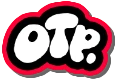
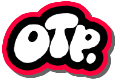
fix(0.28): borde de la pegatina OTP en --bb-red exacto
Segundo pase del jurado (M4, marca): en el borde de corte el azul bajaba
de 60 a 45–59 (#ff002d–#ff003b); solo 136 de 950 rojos opacos eran
#ff003c a 1×. La dilatación dibuja la silueta semitransparente más de cien
veces sobre sí misma y el redondeo premultiplicado de 8 bits deriva el azul.

- otp-slap.mjs repinta el borde dilatado con el rojo exacto conservando su
  alfa (source-in), como ya hacía la sombra.
- La WebP, que es la que pinta el navegador, pasa a sin pérdida (VP8L,
  calidad 1): con pérdida, el submuestreo de croma corría el azul del
  borde entre 40 y 67 y le metía verde (400 píxeles fuera de la tolerancia
  de 8/255 a 1×).
- Antes de guardar, el script decodifica cada fichero y falla si no da los
  píxeles del lienzo o si algún rojo opaco no es rgb(255, 0, 60).
- El manifiesto se escribe con las listas en una línea, como lo deja Biome:
  regenerar ya no rompe pnpm check.

Regenerado con pnpm brand:slap: mismo alfa píxel a píxel (misma forma y
tamaño, 120 × 82 a 1×); 950 de 950 rojos opacos exactos a 1× y 3.971 de
3.971 a 2×, en PNG y WebP. Tests RD-VIS-02 a en OtpSlap.test.tsx
(decodifica las PNG y exige WebP VP8L) y en el E2E otp-slap.spec.ts (lo
que decodifica el navegador a 1× y 2×).

Changed region(s): [[0.0, 0.0244, 0.95, 0.9512], [0.75, 0.1951, 0.775, 0.2195]]

diff --git a/apps/web/src/ui/OtpSlap/OtpSlap.test.tsx b/apps/web/src/ui/OtpSlap/OtpSlap.test.tsx
@@ -1,6 +1,8 @@
 /// <reference types="node" />
 import { readFileSync } from 'node:fs'
 import path from 'node:path'
+import { inflateSync } from 'node:zlib'
+import { color } from '@beatbattle/shared/tokens'
 import { render, screen } from '@testing-library/react'
 import { describe, expect, it } from 'vitest'
 import { t } from '../../i18n'
@@ -29,6 +31,78 @@ function webpSize(bytes: Buffer) {
   }
   return { width: bytes.readUInt16LE(26) & 0x3fff, height: bytes.readUInt16LE(28) & 0x3fff }
 }
+
+/** Trozos de un fichero RIFF/WebP (tipo y tamaño), en orden. */
+function webpChunks(bytes: Buffer) {
+  const chunks: string[] = []
+  for (let at = 12; at + 8 <= bytes.length; ) {
+    const size = bytes.readUInt32LE(at + 4)
+    chunks.push(bytes.subarray(at, at + 4).toString('ascii'))
+    at += 8 + size + (size % 2)
+  }
+  return chunks
+}
+
+/**
+ * Píxeles RGBA de un PNG de 8 bits por canal, RGBA y sin entrelazar (lo que exporta el canvas de
+ * Chrome): IDAT inflado y los cinco filtros de línea deshechos.
+ */
+function pngPixels(bytes: Buffer) {
+  const { width, height } = pngSize(bytes)
+  expect([bytes[24], bytes[25], bytes[28]], 'PNG de 8 bits, RGBA y sin entrelazar').toEqual([8, 6, 0])
+  const idat: Buffer[] = []
+  for (let at = 8; at + 8 <= bytes.length; ) {
+    const length = bytes.readUInt32BE(at)
+    if (bytes.subarray(at + 4, at + 8).toString('ascii') === 'IDAT') {
+      idat.push(bytes.subarray(at + 8, at + 8 + length))
+    }
+    at += 12 + length
+  }
+  const raw = inflateSync(Buffer.concat(idat))
+  const stride = width * 4
+  const px = new Uint8Array(height * stride)
+  const at = (x: number, y: number) => (x >= 0 && y >= 0 ? px[y * stride + x]! : 0)
+  for (let y = 0; y < height; y += 1) {
+    const filter = raw[y * (stride + 1)]!
+    expect(filter, `filtro PNG de la línea ${y}`).toBeLessThanOrEqual(4)
+    for (let x = 0; x < stride; x += 1) {
+      const left = at(x - 4, y)
+      const up = at(x, y - 1)
+      const upLeft = at(x - 4, y - 1)
+      const p = left + up - upLeft
+      const [pa, pb, pc] = [Math.abs(p - left), Math.abs(p - up), Math.abs(p - upLeft)]
+      const paeth = pa <= pb && pa <= pc ? left : pb <= pc ? up : upLeft
+      const predictor = [0, left, up, (left + up) >> 1, paeth][filter]!
+      px[y * stride + x] = (raw[y * (stride + 1) + 1 + x]! + predictor) & 0xff
+    }
+  }
+  return { width, height, px }
+}
+
+/**
+ * Píxeles opacos de la pegatina: cuántos hay, cuántos son el rojo de marca exacto y qué colores se
+ * salen de la arista negro–rojo (sin blanco, `g = 0`: el borde de corte y el contorno negro del logo
+ * fundido con él), donde el azul tiene que ser 60/255 del rojo (±1 por el redondeo).
+ */
+function cutStats(px: Uint8Array) {
+  let opaque = 0
+  let red = 0
+  const off = new Map<string, number>()
+  for (let i = 0; i < px.length; i += 4) {
+    const [r, g, b, a] = [px[i]!, px[i + 1]!, px[i + 2]!, px[i + 3]!]
+    if (a !== 255) continue
+    opaque += 1
+    if (r === RED[0] && g === RED[1] && b === RED[2]) red += 1
+    else if (g === 0 && (r === 255 || Math.abs(b - (RED[2]! * r) / 255) > 1)) {
+      const key = `rgb(${r}, ${g}, ${b})`
+      off.set(key, (off.get(key) ?? 0) + 1)
+    }
+  }
+  return { opaque, red, off: [...off].sort((x, y) => y[1] - x[1]) }
+}
+
+/** El rojo de marca (`--bb-red`) en bytes. */
+const RED = [1, 3, 5].map((i) => Number.parseInt(color.red.slice(i, i + 2), 16))
 
 describe('OtpSlap — pegatina OTP (§3.1 «La firma», §3.3, RF-OTP-01)', () => {
   it('RF-OTP-01: enlaza al sello en otra pestaña con su nombre accesible y data-otp-signature', () => {
@@ -89,6 +163,28 @@ describe('OtpSlap — pegatina OTP (§3.1 «La firma», §3.3, RF-OTP-01)', () =
         width: manifest.width * scale,
         height: manifest.height * scale,
       })
+    }
+  })
+
+  it('RD-VIS-02 a: el borde de corte es --bb-red exacto, rgb(255, 0, 60), en todo píxel opaco (PNG a 1× y 2×)', () => {
+    expect(RED).toEqual([255, 0, 60])
+    for (const name of ['otp-slap.png', 'otp-slap@2x.png']) {
+      const { px } = pngPixels(readFileSync(publicImg(name)))
+      const { opaque, red, off } = cutStats(px)
+      // Ningún rojo derivado (el azul no baja de 60) ni mezcla con el negro fuera de la arista.
+      expect(off, name).toEqual([])
+      // El borde existe: un anillo de 4 px alrededor del logo es más del 10 % de lo opaco.
+      expect(red / opaque, name).toBeGreaterThan(0.1)
+    }
+  })
+
+  it('RD-VIS-02 a: las WebP (las que pinta el navegador) son sin pérdida, VP8L', () => {
+    // Con pérdida (VP8), el submuestreo de croma corría el azul del borde entre 40 y 67 y le metía
+    // verde. Sin pérdida, son los mismos píxeles que las PNG (el generador lo comprueba al exportar).
+    for (const name of ['otp-slap.webp', 'otp-slap@2x.webp']) {
+      const chunks = webpChunks(readFileSync(publicImg(name)))
+      expect(chunks, name).toContain('VP8L')
+      expect(chunks, name).not.toContain('VP8 ')
     }
   })
 })

diff --git a/tests/e2e/otp-slap.spec.ts b/tests/e2e/otp-slap.spec.ts
@@ -1,0 +1,86 @@
+import { expect, type Page, test } from '@playwright/test'
+import { open } from './support'
+
+/**
+ * Pegatina OTP (`RD-VIS-02` a, guía §3.1 «La firma» y §3.3; tarea 0.28, segundo pase del jurado): el
+ * borde de corte es el rojo de marca exacto en lo que pinta el navegador. Se decodifica en un canvas 2D
+ * por CPU la imagen que elige el `<picture>` de la firma (la WebP, a 1× y a 2×) y las PNG de reserva:
+ *
+ * - todo píxel opaco con r = 255 y g = 0 es rgb(255, 0, 60) (`--bb-red`);
+ * - el resto de la arista negro–rojo (g = 0: el contorno del logo fundido con el borde) tiene el azul
+ *   a 60/255 del rojo (±1 por el redondeo);
+ * - el borde existe: es más del 10 % de los píxeles opacos.
+ *
+ * La captura de pantalla no sirve para esto: la pegatina va girada −7° y escalada, y el remuestreo
+ * mezcla el borde con lo que tiene al lado.
+ */
+
+const RED = [255, 0, 60] as const
+
+interface SlapStats {
+  opaque: number
+  red: number
+  /** Colores opacos fuera del rojo exacto o de la arista negro–rojo, con cuántos píxeles. */
+  off: [string, number][]
+}
+
+function slapStats(page: Page, src: string): Promise<SlapStats> {
+  return page.evaluate(
+    async ({ src, red }) => {
+      const image = new Image()
+      image.src = src
+      await image.decode()
+      const canvas = new OffscreenCanvas(image.naturalWidth, image.naturalHeight)
+      const ctx = canvas.getContext('2d', { willReadFrequently: true })!
+      ctx.drawImage(image, 0, 0)
+      const px = ctx.getImageData(0, 0, canvas.width, canvas.height).data
+      let opaque = 0
+      let exact = 0
+      const off = new Map<string, number>()
+      for (let i = 0; i < px.length; i += 4) {
+        const [r, g, b, a] = [px[i]!, px[i + 1]!, px[i + 2]!, px[i + 3]!]
+        if (a !== 255) continue
+        opaque += 1
+        if (r === red[0] && g === red[1] && b === red[2]) exact += 1
+        else if (g === 0 && (r === 255 || Math.abs(b - (red[2] * r) / 255) > 1)) {
+          const key = `rgb(${r}, ${g}, ${b})`
+          off.set(key, (off.get(key) ?? 0) + 1)
+        }
+      }
+      return { opaque, red: exact, off: [...off].sort((x, y) => y[1] - x[1]) }
+    },
+    { src, red: RED },
+  )
+}
+
+function expectExactCut(stats: SlapStats, name: string) {
+  expect(stats.off, name).toEqual([])
+  expect(stats.red / stats.opaque, name).toBeGreaterThan(0.1)
+}
+
+for (const scale of [1, 2]) {
+  test.describe(`densidad ${scale}×`, () => {
+    test.use({ deviceScaleFactor: scale })
+
+    test(`RD-VIS-02 a: la pegatina que pinta el navegador a ${scale}× tiene el borde en --bb-red exacto`, async ({
+      page,
+    }) => {
+      await open(page, '/', 'Beat Battle')
+      const image = page.locator('[data-otp-signature] img').first()
+      await expect(image).toBeVisible()
+      await expect.poll(() => image.evaluate((img: HTMLImageElement) => img.complete)).toBe(true)
+      const src = await image.evaluate((img: HTMLImageElement) => img.currentSrc)
+      expect(src).toMatch(scale === 1 ? /\/img\/otp-slap\.webp$/ : /\/img\/otp-slap@2x\.webp$/)
+      expectExactCut(await slapStats(page, src), src)
+    })
+  })
+}
+
+test('RD-VIS-02 a: las PNG de reserva de la pegatina tienen el borde en --bb-red exacto', async ({
+  page,
+}) => {
+  await open(page, '/', 'Beat Battle')
+  for (const file of ['/img/otp-slap.png', '/img/otp-slap@2x.png']) {
+    expectExactCut(await slapStats(page, file), file)
+  }
+})
